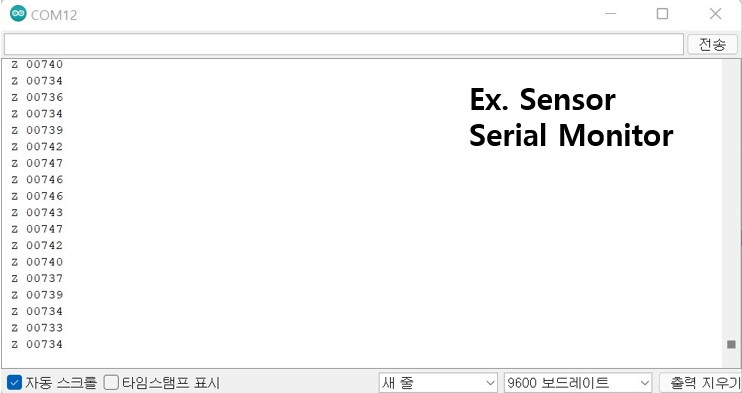
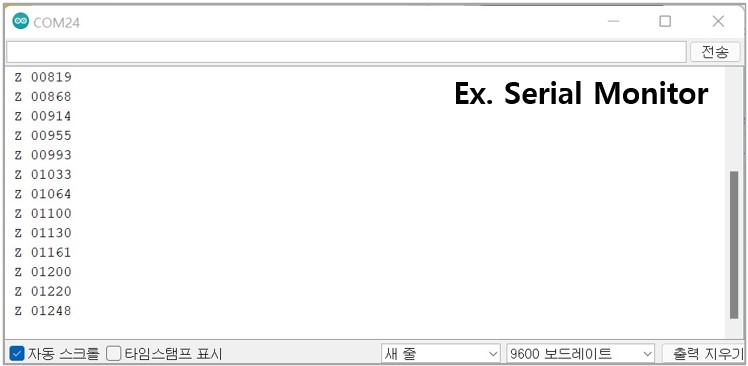
GitBook: [#267] No subject

Changed region(s): [[0.0, 0.0, 1.0, 1.0], [0.5889, 0.2104, 0.9609, 0.3907]]

diff --git a/product-document/gss/cozir-lp2.md b/product-document/gss/cozir-lp2.md
@@ -97,13 +97,10 @@ void loop(){
 }
 ```
 
-![](<../../.gitbook/assets/uno serial monitor.jpg>)
+![](<../../.gitbook/assets/CozIR serial monitor ex (1).jpg>)
 
 Z:디지털 필터링 후 CO₂ 농도
 
 ## 4.CozIR-LP2 Monitoring
 
-<a href = "https://cayenne.mydevices.com/shared/61f0f1f73916a44bc3a05ab2">
-<img src = "../../.gitbook/assets/live graph2.jpg" width = "1200" height = "300">
-</a>
-그림을 클릭하면 CozIR LP2 Live Graph로 이동합니다
+[![](<../../.gitbook/assets/live graph2.jpg>) ](https://cayenne.mydevices.com/shared/61f0f1f73916a44bc3a05ab2)그림을 클릭하면 CozIR LP2 Live Graph로 이동합니다
